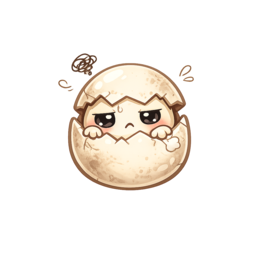
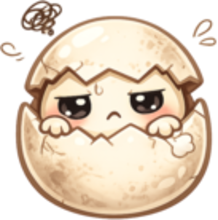
Adjust pet image delivery

diff --git a/docker_webhook_bot.py b/docker_webhook_bot.py
@@ -1579,8 +1579,7 @@ class SeleniumArchiveBot:
             return {
                 "type": "photo",
                 "photo_path": payload["photo_path"],
-                "caption": payload["caption"],
-                "parse_mode": "HTML",
+                "text": fallback_text or payload["caption"],
             }
         return fallback_text
 
@@ -2801,42 +2800,48 @@ class SeleniumArchiveBot:
             logger.error(f"Error sending message: {e}")
             return False
 
-    def send_photo(self, chat_id, photo_path, caption=None, parse_mode=None):
-        """Send a local image file via Telegram Bot API."""
+    def send_document(self, chat_id, document_path, caption=None, parse_mode=None):
+        """Send a local document/image via Telegram Bot API without Telegram photo recompression."""
         try:
             import requests
 
-            url = f"{self.telegram_api_url}/sendPhoto"
+            url = f"{self.telegram_api_url}/sendDocument"
             data = {'chat_id': chat_id}
             if caption:
                 data['caption'] = caption
             if parse_mode:
                 data['parse_mode'] = parse_mode
 
-            with open(photo_path, 'rb') as photo_file:
-                files = {'photo': photo_file}
+            with open(document_path, 'rb') as document_file:
+                files = {'document': (os.path.basename(document_path), document_file, 'image/png')}
                 response = requests.post(url, data=data, files=files, timeout=30)
 
             if response.status_code == 200:
                 result = response.json()
-                logger.info(f"Photo sent successfully to chat {chat_id}: {os.path.basename(photo_path)}")
+                logger.info(f"Document sent successfully to chat {chat_id}: {os.path.basename(document_path)}")
                 return result.get('result', True)
 
-            logger.error(f"Failed to send photo: {response.text}")
+            logger.error(f"Failed to send document: {response.text}")
             return False
         except Exception as e:
-            logger.error(f"Error sending photo %s: %s", photo_path, e)
+            logger.error(f"Error sending document %s: %s", document_path, e)
             return False
 
     def send_bot_response(self, chat_id, response, disable_web_page_preview=False):
         """Send either a text response or a structured media response."""
         if isinstance(response, dict) and response.get("type") == "photo":
-            return self.send_photo(
-                chat_id,
-                response["photo_path"],
-                caption=response.get("caption"),
-                parse_mode=response.get("parse_mode"),
-            )
+            document_sent = self.send_document(chat_id, response["photo_path"])
+            if not document_sent:
+                return False
+
+            text = response.get("text")
+            if text:
+                return self.send_message(
+                    chat_id,
+                    text,
+                    disable_web_page_preview=disable_web_page_preview,
+                )
+            return document_sent
 
         return self.send_message(
             chat_id,
